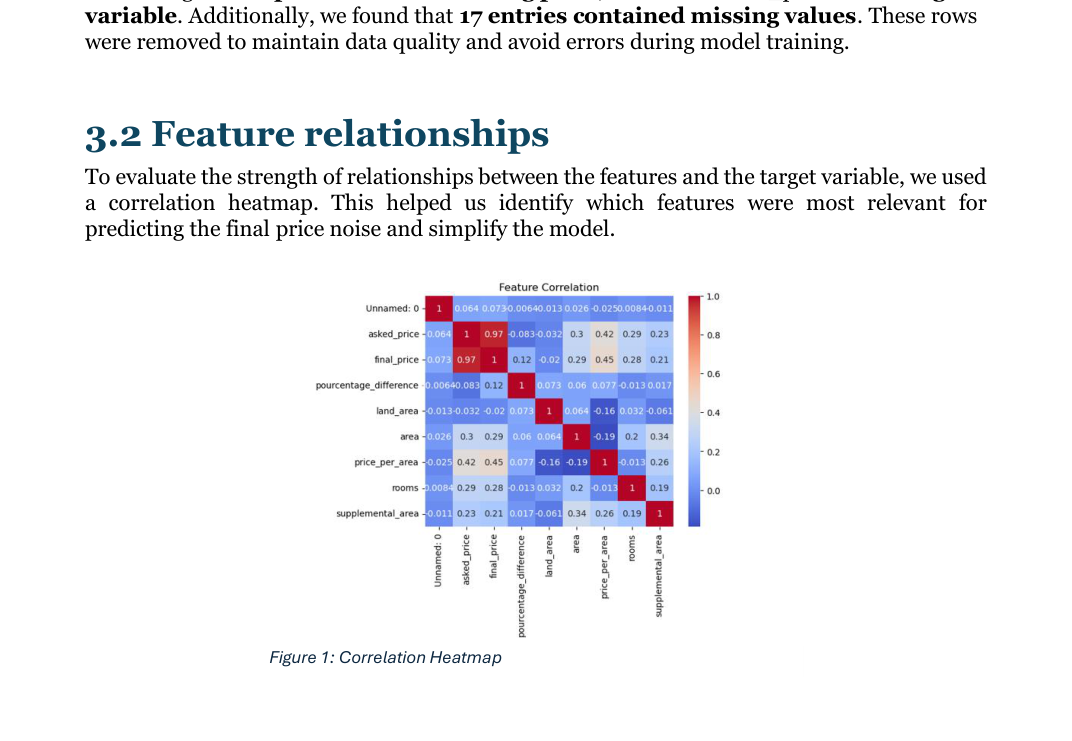
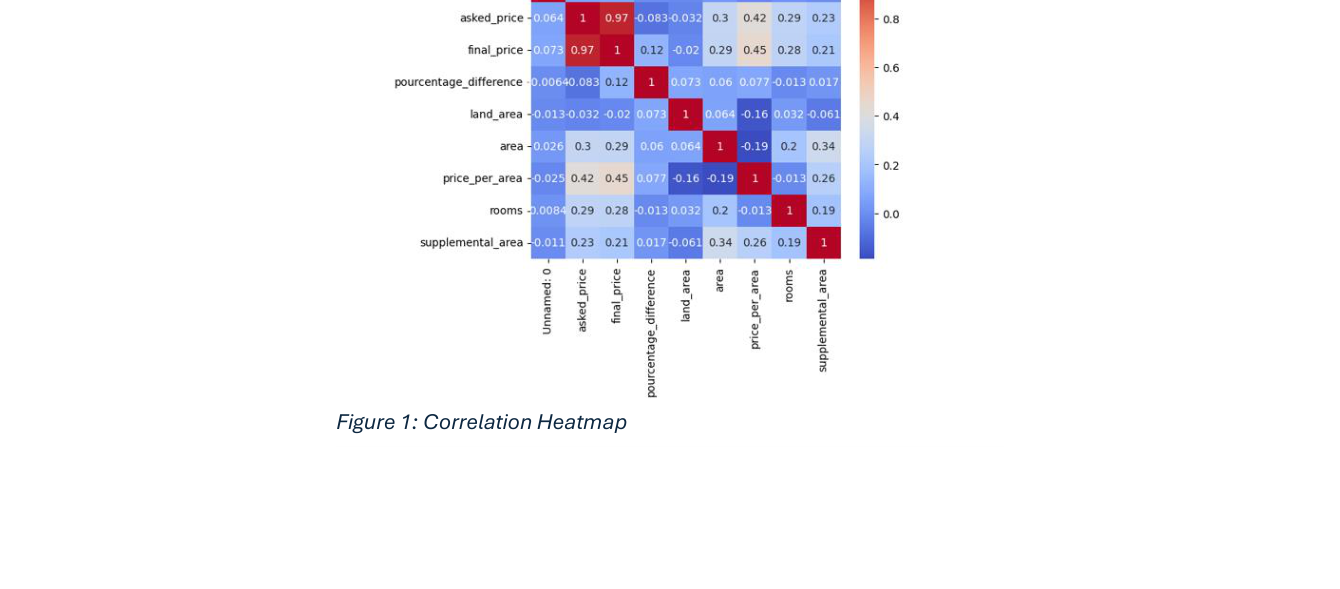
Expand carousels: portal +2 database slides, greenhouse/ML title pages
Portal: 3→5 slides adding reporter dashboard and user management DB view.
Greenhouse: single→2 slides with clean title page first.
ML: single→2 slides with clean title page first.
Re-cropped heatmap and block diagram to remove section headings.

Changed region(s): [[0.0616, 0.0, 0.9235, 0.8557], [0.2463, 0.8557, 0.4618, 0.9168]]

diff --git a/index.html b/index.html
@@ -241,17 +241,21 @@
             <h3 class="project-title">Incident Response Portal</h3>
           </div>
 
-          <!-- Screenshot carousel (3 slides) -->
+          <!-- Screenshot carousel (5 slides) -->
           <div class="project-screenshots" data-active="0">
             <div class="screenshots-track">
-              <img src="assets/images/portal-login.png"  alt="Incident Portal — login page"          class="screenshot-slide" loading="lazy" />
-              <img src="assets/images/portal-admin.png"  alt="Incident Portal — admin dashboard"     class="screenshot-slide" loading="lazy" />
-              <img src="assets/images/portal-chart.png"  alt="Incident Portal — analytics pie chart" class="screenshot-slide" loading="lazy" />
+              <img src="assets/images/portal-login.png"    alt="Incident Portal — login page"             class="screenshot-slide" loading="lazy" />
+              <img src="assets/images/portal-admin.png"    alt="Incident Portal — admin dashboard"        class="screenshot-slide" loading="lazy" />
+              <img src="assets/images/portal-reporter.png" alt="Incident Portal — reporter dashboard"     class="screenshot-slide" loading="lazy" />
+              <img src="assets/images/portal-database.png" alt="Incident Portal — user management (database)" class="screenshot-slide" loading="lazy" />
+              <img src="assets/images/portal-chart.png"    alt="Incident Portal — analytics pie chart"   class="screenshot-slide" loading="lazy" />
             </div>
             <button class="screenshot-btn screenshot-prev" aria-label="Previous screenshot">&#8249;</button>
             <button class="screenshot-btn screenshot-next" aria-label="Next screenshot">&#8250;</button>
             <div class="screenshot-dots">
               <span class="dot dot--active"></span>
+              <span class="dot"></span>
+              <span class="dot"></span>
               <span class="dot"></span>
               <span class="dot"></span>
             </div>
@@ -285,10 +289,17 @@
             <h3 class="project-title">Smart Greenhouse — Embedded Control System</h3>
           </div>
 
-          <!-- System architecture diagram from report -->
-          <div class="project-screenshots">
+          <!-- Title page + system diagram (2 slides) -->
+          <div class="project-screenshots" data-active="0">
             <div class="screenshots-track">
+              <img src="assets/images/greenhouse-title.png"   alt="Smart Greenhouse System — project title page"             class="screenshot-slide screenshot-slide--contain" loading="lazy" />
               <img src="assets/images/greenhouse-diagram.png" alt="Greenhouse system block diagram — SAM3X8E inputs and outputs" class="screenshot-slide" loading="lazy" />
+            </div>
+            <button class="screenshot-btn screenshot-prev" aria-label="Previous screenshot">&#8249;</button>
+            <button class="screenshot-btn screenshot-next" aria-label="Next screenshot">&#8250;</button>
+            <div class="screenshot-dots">
+              <span class="dot dot--active"></span>
+              <span class="dot"></span>
             </div>
           </div>
 
@@ -364,10 +375,17 @@
             <h3 class="project-title">Stockholm House Price Prediction</h3>
           </div>
 
-          <!-- Feature correlation heatmap from report -->
-          <div class="project-screenshots">
+          <!-- Title page + correlation heatmap (2 slides) -->
+          <div class="project-screenshots" data-active="0">
             <div class="screenshots-track">
-              <img src="assets/images/ml-heatmap.png" alt="Feature correlation heatmap for Stockholm housing dataset" class="screenshot-slide" loading="lazy" />
+              <img src="assets/images/ml-title.png"   alt="Predicting Stockholm housing prices using Machine Learning — title page" class="screenshot-slide screenshot-slide--contain" loading="lazy" />
+              <img src="assets/images/ml-heatmap.png" alt="Feature correlation heatmap for Stockholm housing dataset"               class="screenshot-slide" loading="lazy" />
+            </div>
+            <button class="screenshot-btn screenshot-prev" aria-label="Previous screenshot">&#8249;</button>
+            <button class="screenshot-btn screenshot-next" aria-label="Next screenshot">&#8250;</button>
+            <div class="screenshot-dots">
+              <span class="dot dot--active"></span>
+              <span class="dot"></span>
             </div>
           </div>
 
